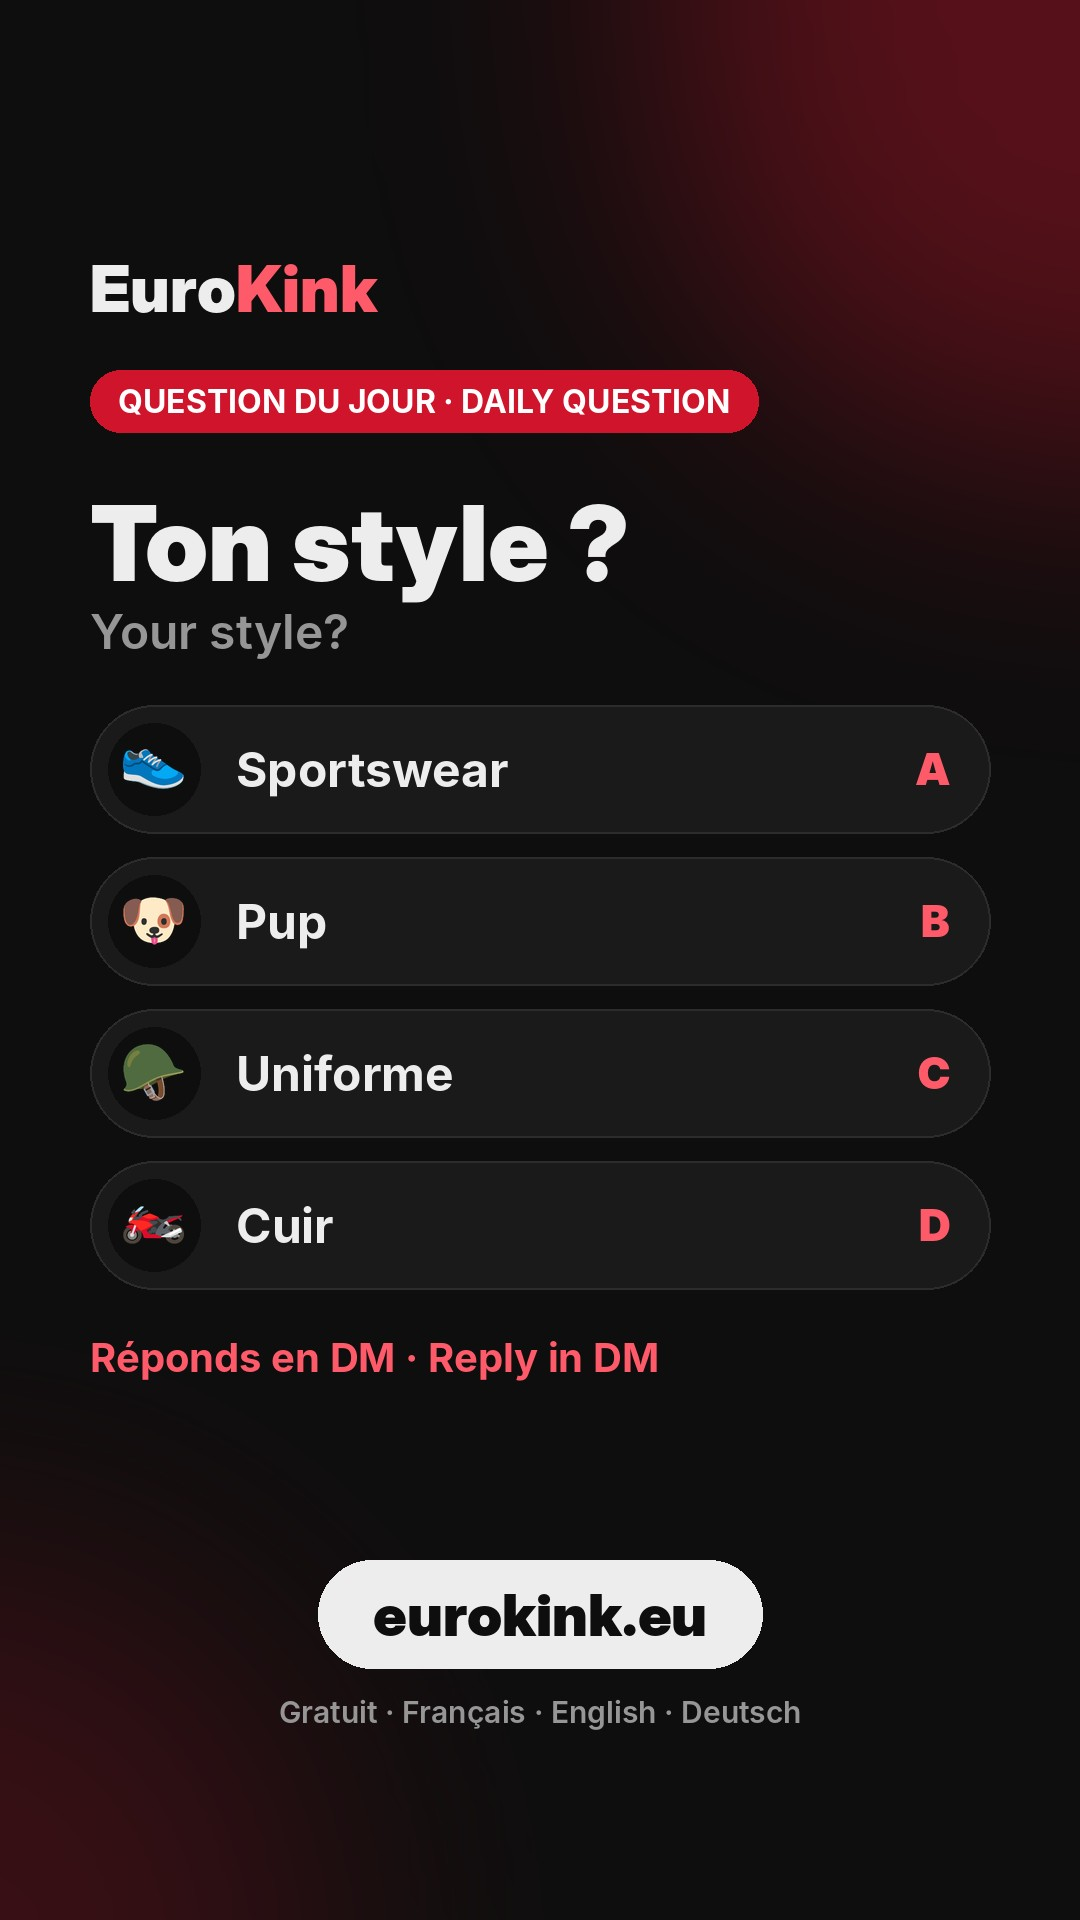
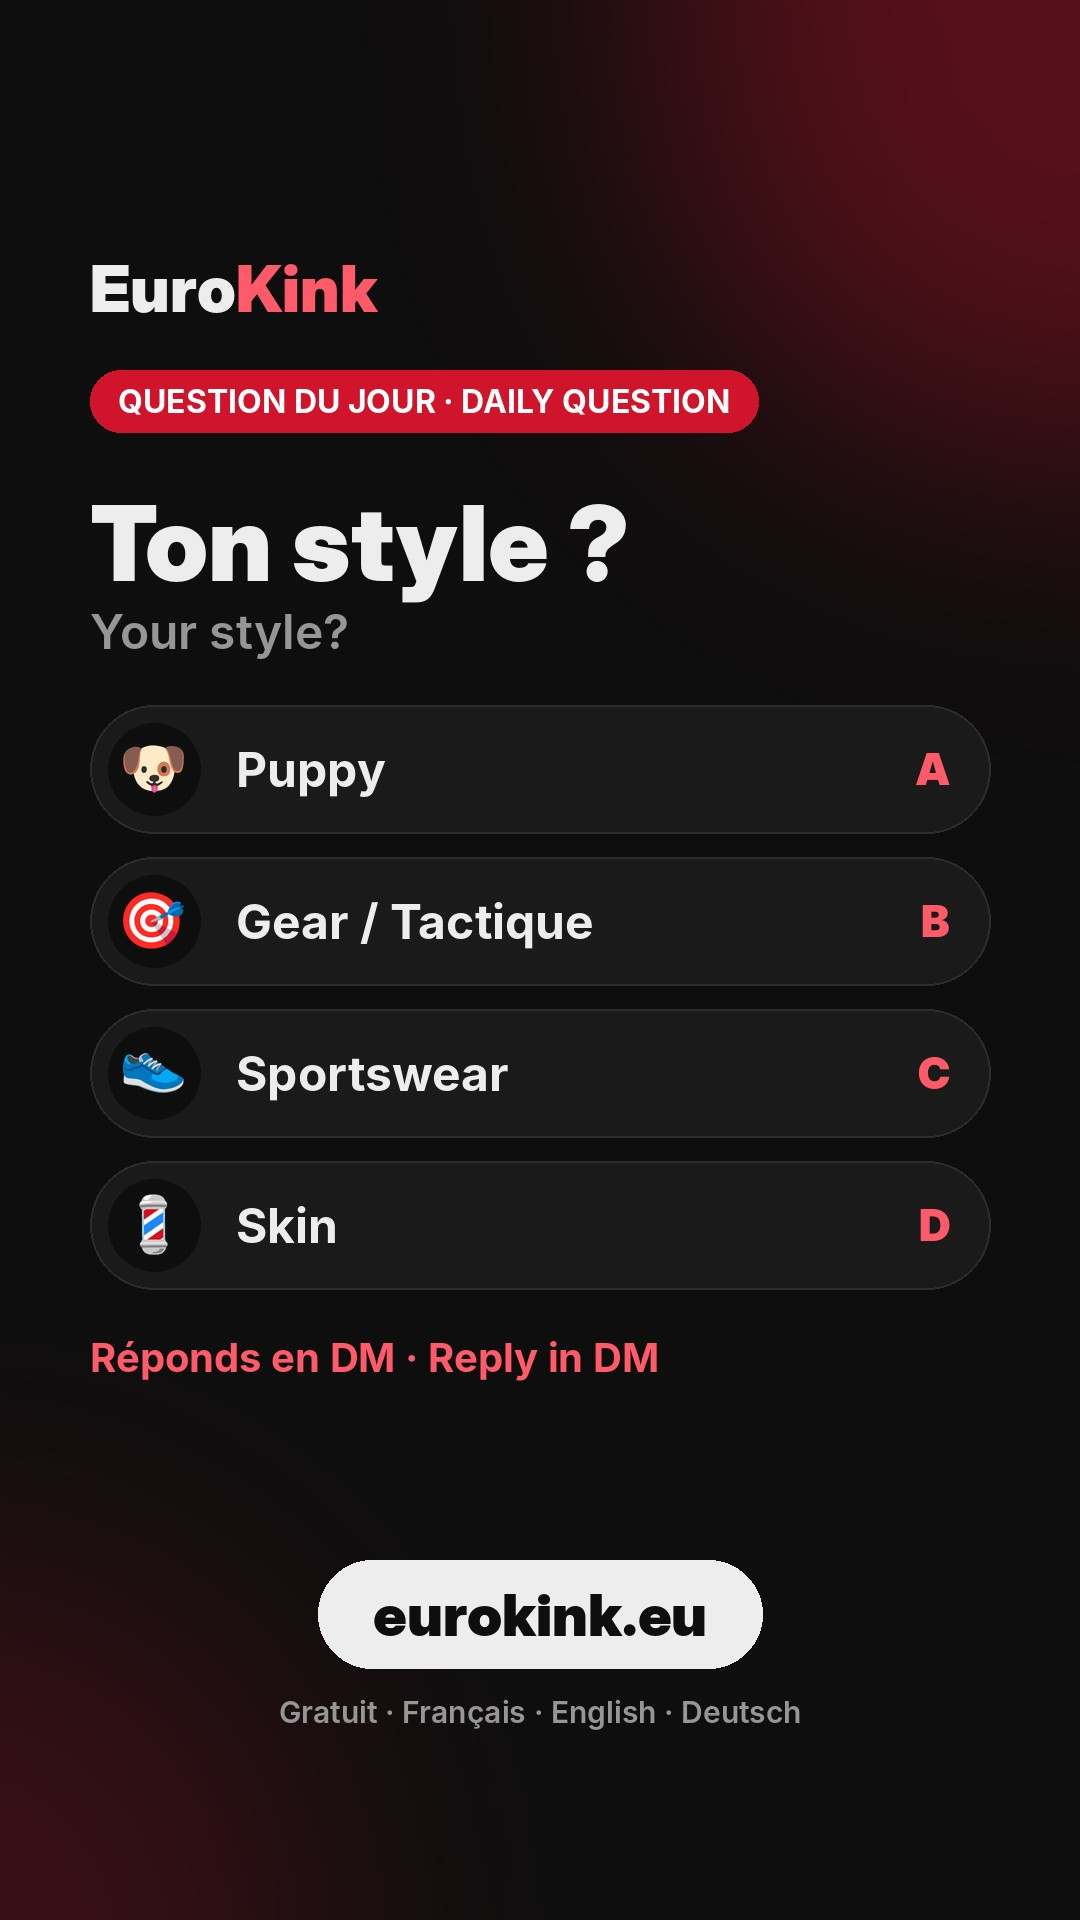
Stories : tous les styles mis en avant (puppy, gear, tactique, sportswear…)
Claude-Session: https://claude.ai/code/session_018Ux13vUQ72CsnVpyvbnhZ3

diff --git a/tools/stories/make.py b/tools/stories/make.py
@@ -199,6 +199,29 @@ def story_stat(big, fr, en, sub_fr, sub_en, kicker='LA COMMUNAUTÉ · COMMUNITY'
     footer(img, d)
     return img
 
+STYLES = [('🧥', 'Cuir'), ('✨', 'Latex'), ('🐶', 'Puppy'), ('⚙', 'Gear'), ('🎯', 'Tactique'), ('👟', 'Sportswear'),
+          ('💈', 'Skin'), ('👟', 'Sneakers'), ('👮', 'Uniforme'), ('🪖', 'Militaire'), ('🦺', 'Workwear'), ('🧣', 'Puffer'),
+          ('🏍', 'Biker'), ('🐻', 'Bears')]
+
+def story_styles():
+    img, d = base('TOUS LES STYLES · EVERY STYLE')
+    y = text_block(d, 'Quel que soit ton style.', BLACK(96), 480, TXT)
+    y = text_block(d, 'Whatever your style.', SEMI(46), y + 4, MUTED) + 40
+    x = 90
+    f = BOLD(38)
+    for em, lab in STYLES:
+        w = int(d.textlength(lab, font=f)) + 100
+        if x + w > 990:
+            x = 90; y += 96
+        d.rounded_rectangle((x, y, x + w, y + 76), radius=38, fill=SURF, outline=BORDER, width=2)
+        emoji(img, em, x + 38, y + 38, 36)
+        d.text((x + 66, y + 38), lab, font=f, fill=TXT, anchor='lm')
+        x += w + 16
+    d.text((90, y + 120), 'Toutes les soirées sur EuroKink', font=BOLD(40), fill=RED_T)
+    d.text((90, y + 172), 'Every party on EuroKink', font=SEMI(34), fill=MUTED)
+    footer(img, d)
+    return img
+
 FEATURES = {
     'alerts': ('🎟', 'Les billets sortent ? Tu le sais en premier.', 'Tickets drop? You know first.',
                'Mets une soirée en favori : rappel avant le jour\u00a0J et alerte dès que la billetterie ouvre.',
@@ -236,14 +259,14 @@ def plan(day, data):
     feat = ['going', 'passport', 'stay', 'privacy', 'messages', 'alerts', 'memory'][wd]
     s2 = story_feature(*FEATURES[feat], kicker=('MINI-JEU · MINI-GAME' if feat == 'memory' else 'DANS L’APPLI · IN THE APP'))
     third = {
-        0: lambda: story_quiz('Ton style ?', 'Your style?', [('👟', 'Sportswear'), ('🐶', 'Pup'), ('🪖', 'Uniforme'), ('🏍', 'Cuir')]),
+        0: lambda: story_quiz('Ton style ?', 'Your style?', [('🐶', 'Puppy'), ('🎯', 'Gear / Tactique'), ('👟', 'Sportswear'), ('💈', 'Skin')]),
         1: lambda: story_stat(str(data['countries']), 'pays couverts', 'countries covered',
                               'De Paris à Varsovie, toutes les soirées au même endroit.', 'From Paris to Warsaw, every party in one place.',
                               kicker='TOUTE L’EUROPE · ALL OF EUROPE'),
         2: lambda: story_quiz('Ta prochaine destination ?', 'Your next trip?', [('🌴', 'Nice'), ('🗼', 'Paris'), ('🍺', 'Cologne'), ('🐻', 'Berlin')]),
-        3: lambda: story_feature(*FEATURES['memory'], kicker='MINI-JEU · MINI-GAME'),
+        3: lambda: story_styles(),
         4: lambda: story_quiz('Bottes ou baskets ?', 'Boots or sneakers?', [('🥾', 'Bottes · Boots'), ('👟', 'Baskets · Sneakers'), ('🤷', 'Les deux · Both')]),
-        5: lambda: story_quiz('Cuir ou latex ?', 'Leather or rubber?', [('🖤', 'Cuir · Leather'), ('✨', 'Latex · Rubber'), ('🔥', 'Les deux · Both')]),
+        5: lambda: story_quiz('Ce soir, tu sors en…', 'Tonight you’re wearing…', [('🐶', 'Puppy'), ('🎯', 'Tactique · Tactical'), ('👮', 'Uniforme · Uniform'), ('🧥', 'Cuir · Leather')]),
         6: lambda: story_stat(f'{n}', 'membres dès la 1re semaine', 'members in week one',
                               'Merci ! Invite tes potes : plus on est, plus l’agenda est complet.', 'Thank you! Invite your mates: the more we are, the fuller the agenda.'),
     }[wd]
